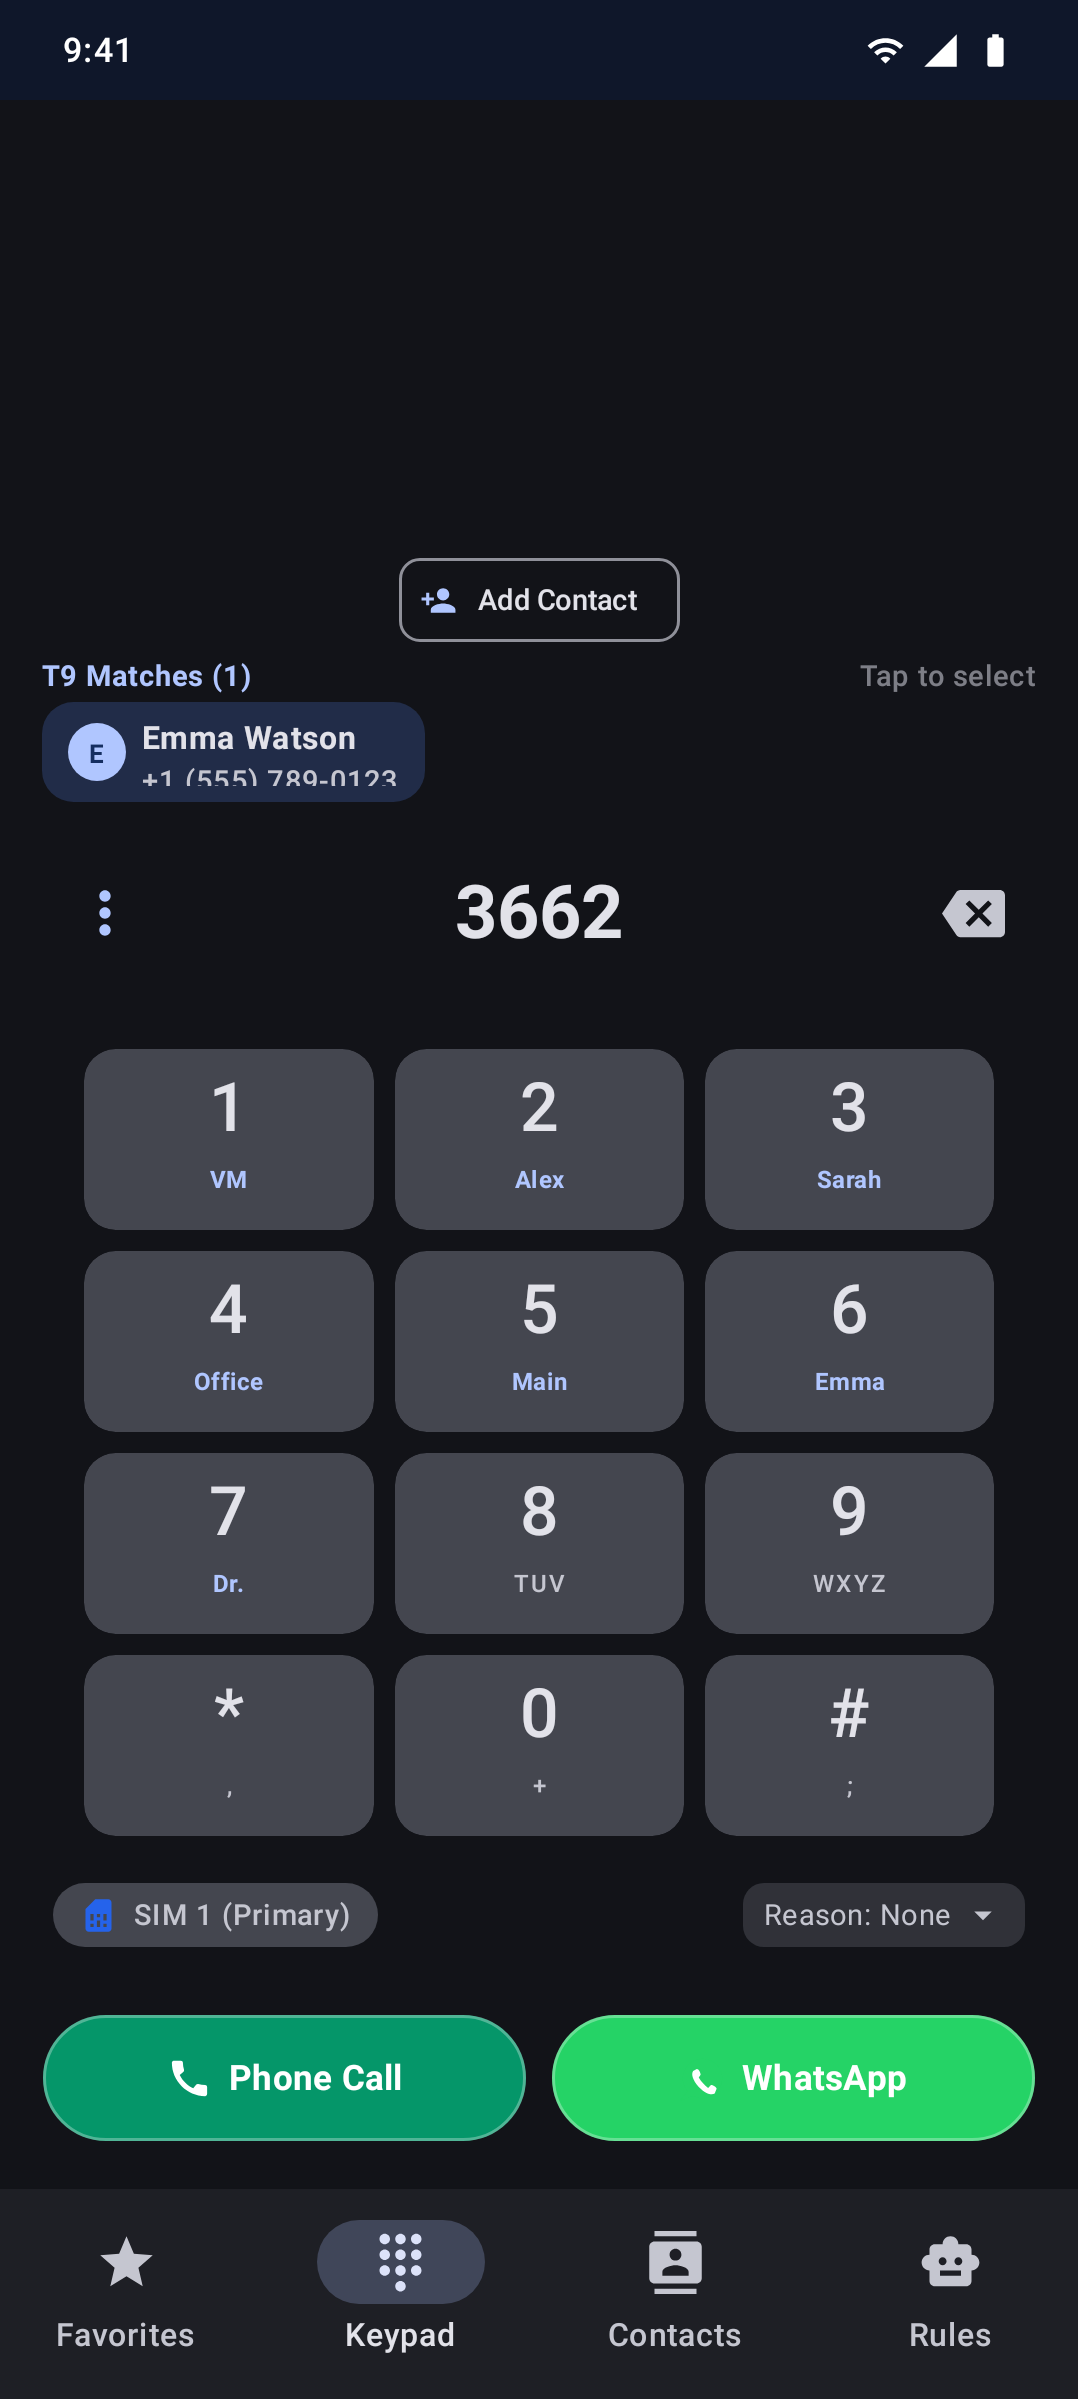
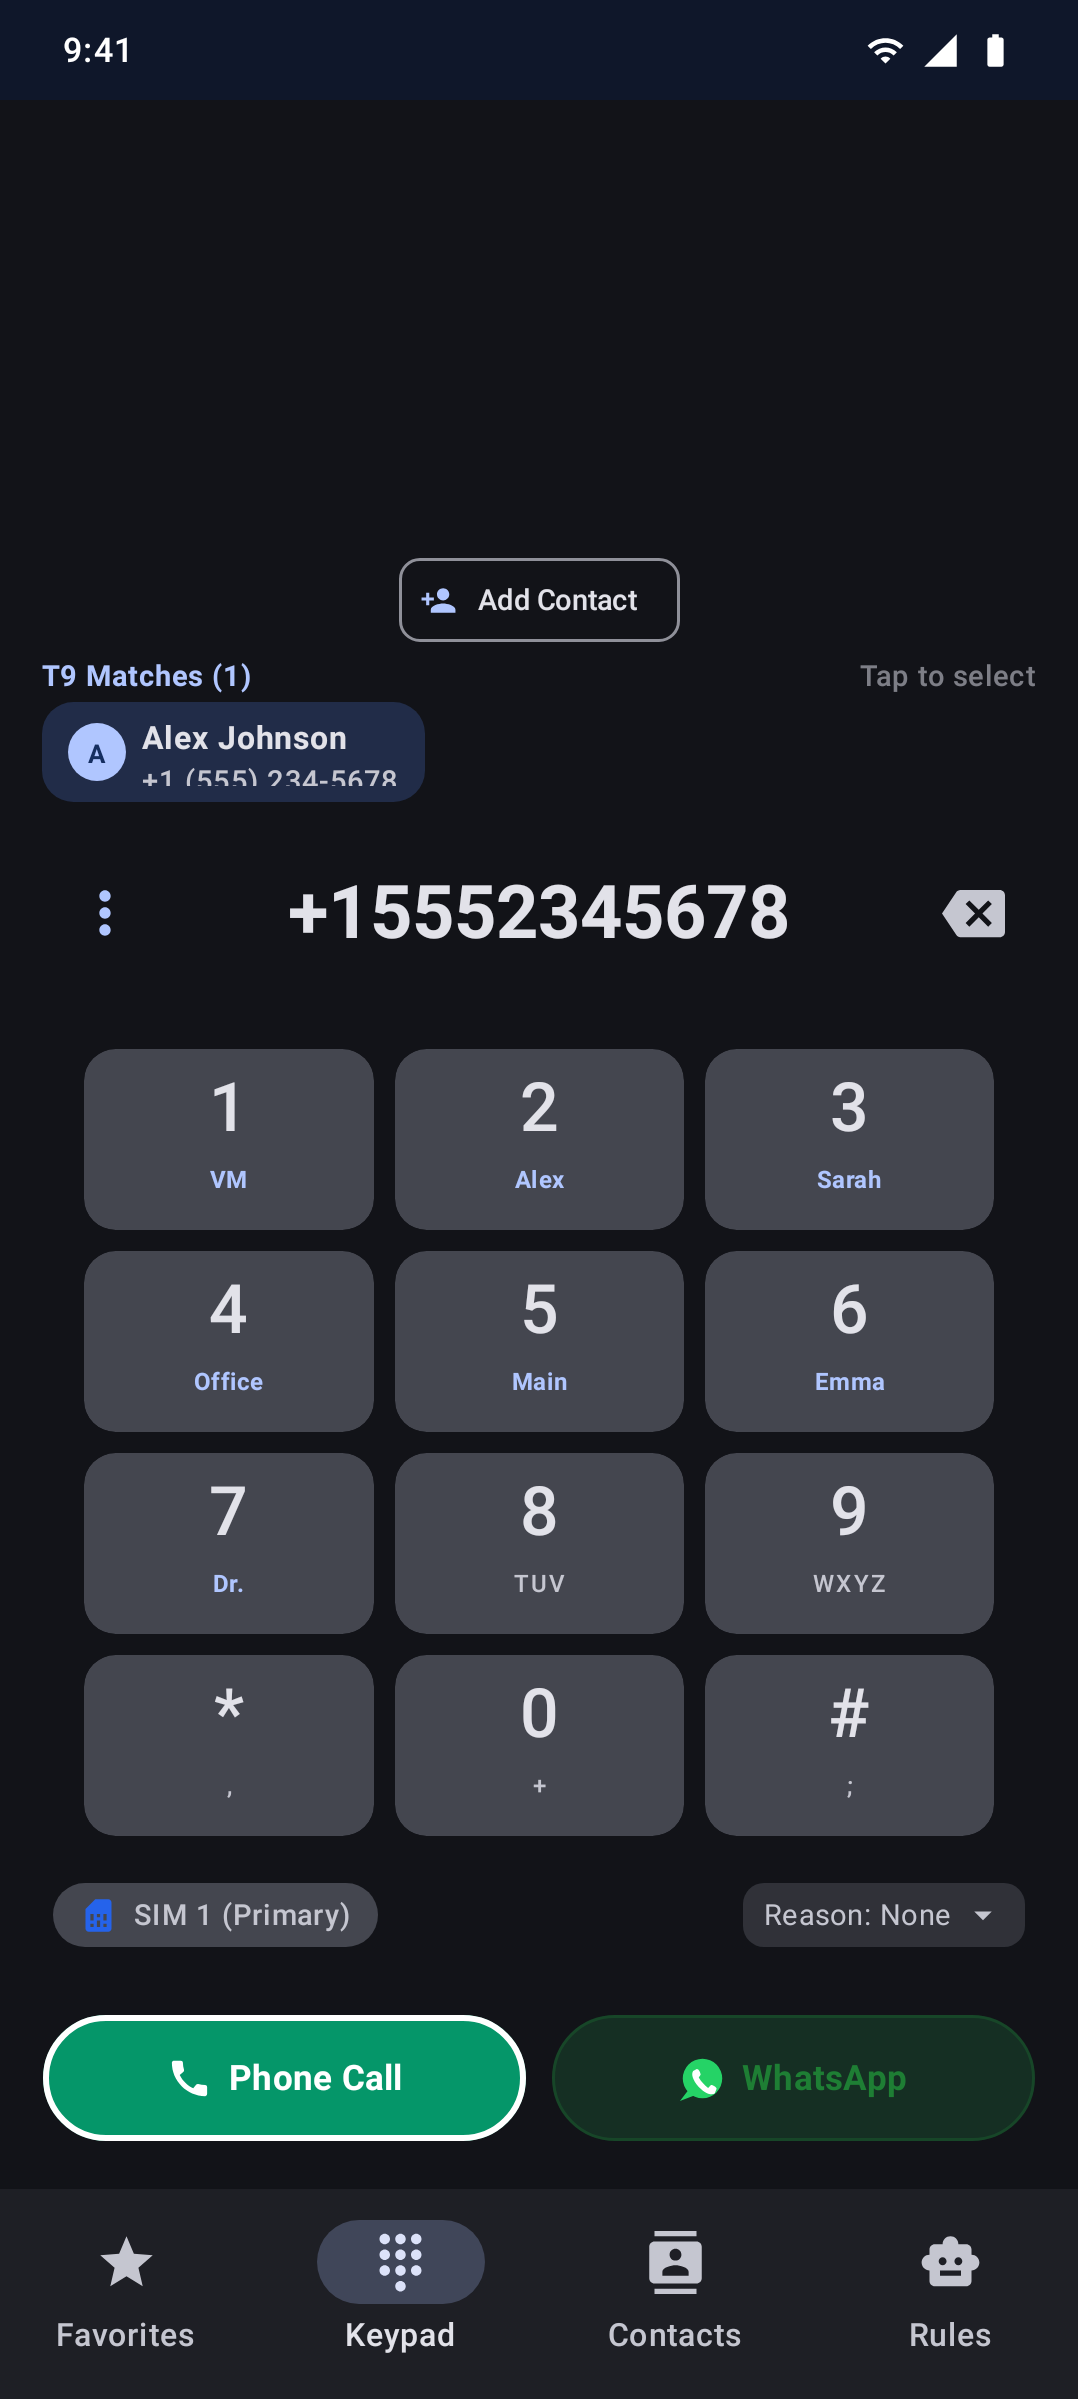
feat: add WhatsApp quick action button to contacts
Integrate a direct WhatsApp messaging action into the contact row for improved communication workflows. Update UI documentation and screenshot tests accordingly.

diff --git a/docs/index.html b/docs/index.html
@@ -46,12 +46,12 @@
 
     /* Mockup Showcase Carousel / Grid */
     .showcase-section { margin: 60px 0; }
-    .mockup-grid { display: grid; grid-template-columns: repeat(auto-fit, minmax(250px, 1fr)); gap: 24px; justify-items: center; max-width: 1240px; margin: 0 auto; }
+    .mockup-grid { display: grid; grid-template-columns: repeat(auto-fit, minmax(280px, 1fr)); gap: 32px; justify-items: center; max-width: 1040px; margin: 0 auto; }
     
     /* Realistic Google Pixel Device Frame */
     .phone-frame {
-      width: 270px;
-      height: 585px;
+      width: 285px;
+      height: 618px;
       background: #000;
       border: 6px solid #2d3748;
       outline: 2px solid rgba(255, 255, 255, 0.08);
@@ -235,7 +235,7 @@
             <img src="panel_1_favorites.png" alt="Favorites & Speed Dial Screen" class="phone-img">
           </div>
           <div class="phone-title">Favorites & Speed Dial</div>
-          <div class="phone-subtitle">Bento grid, quick call & WhatsApp launch</div>
+          <div class="phone-subtitle">Dual Phone & WhatsApp dialing buttons for every contact</div>
         </div>
 
         <!-- Panel 2: Keypad -->
@@ -245,8 +245,8 @@
             <div class="pixel-camera"></div>
             <img src="panel_2_keypad.png" alt="T9 Keypad Screen" class="phone-img">
           </div>
-          <div class="phone-title">T9 Predictive Keypad</div>
-          <div class="phone-subtitle">Predictive search & dual-action dial buttons</div>
+          <div class="phone-title">T9 Keypad with Dual Dialing</div>
+          <div class="phone-subtitle">Instant Phone Call and WhatsApp Call action buttons</div>
         </div>
 
         <!-- Panel 3: Contacts -->
@@ -257,18 +257,7 @@
             <img src="panel_3_contacts.png" alt="Contacts Screen" class="phone-img">
           </div>
           <div class="phone-title">Contacts Directory</div>
-          <div class="phone-subtitle">Sorted directory, search & quick actions</div>
-        </div>
-
-        <!-- Panel 4: Rules -->
-        <div>
-          <div class="phone-frame">
-            <div class="pixel-speaker"></div>
-            <div class="pixel-camera"></div>
-            <img src="panel_4_rules.png" alt="Caller Rules & Backup Screen" class="phone-img">
-          </div>
-          <div class="phone-title">Automation & Rules</div>
-          <div class="phone-subtitle">Auto-answer, DTMF injection & JSON backup</div>
+          <div class="phone-subtitle">One-tap Phone & WhatsApp icons right on every contact row</div>
         </div>
       </div>
     </section>

diff --git a/app/src/test/java/com/example/RealScreenshotTest.kt b/app/src/test/java/com/example/RealScreenshotTest.kt
@@ -256,6 +256,7 @@ class RealScreenshotTest {
           onDeleteFavorite = {},
           onAddFavorite = { _, _, _, _ -> },
           onAssignSpeedDial = { _, _ -> },
+          getPreferredCallingMode = { "ask_always" },
           deviceContacts = demoContacts
         )
       }
@@ -269,7 +270,7 @@ class RealScreenshotTest {
     composeTestRule.setContent {
       PixelPhoneFrameWrapper(selectedTab = 1) {
         DialerScreen(
-          number = "3662",
+          number = "+15552345678",
           favorites = demoFavorites,
           recentCalls = demoRecentCalls,
           deviceContacts = demoContacts,
@@ -303,29 +304,11 @@ class RealScreenshotTest {
           onCallNumber = {},
           onSelectNumber = {},
           onToggleFavorite = { _, _, _, _ -> },
-          onCreateRule = {}
+          onCreateRule = {},
+          onPlaceWhatsAppCall = {}
         )
       }
     }
     composeTestRule.onRoot().captureRoboImage(filePath = "src/test/screenshots/panel_3_contacts.png")
-  }
-
-  @Test
-  fun capture_panel_4_rules() {
-    composeTestRule.setContent {
-      PixelPhoneFrameWrapper(selectedTab = 3) {
-        RulesScreen(
-          rules = demoRules,
-          automationLogs = emptyList(),
-          favorites = demoFavorites,
-          onToggleRule = {},
-          onSaveRule = {},
-          onDeleteRule = {},
-          onClearLogs = {},
-          deviceContacts = demoContacts
-        )
-      }
-    }
-    composeTestRule.onRoot().captureRoboImage(filePath = "src/test/screenshots/panel_4_rules.png")
   }
 }

diff --git a/app/src/main/java/com/example/ui/components/ContactRowItem.kt b/app/src/main/java/com/example/ui/components/ContactRowItem.kt
@@ -199,7 +199,7 @@ fun ContactRowItem(
                     )
                 }
 
-                // Quick Action Buttons
+                // Quick Action Buttons (Phone & WhatsApp directly visible)
                 Row(
                     verticalAlignment = Alignment.CenterVertically,
                     horizontalArrangement = Arrangement.spacedBy(4.dp)
@@ -210,10 +210,20 @@ fun ContactRowItem(
                     ) {
                         Icon(
                             imageVector = Icons.Default.Call,
-                            contentDescription = "Call",
+                            contentDescription = "Phone Call",
                             tint = Color(0xFF16A34A),
                             modifier = Modifier.size(20.dp)
                         )
+                    }
+
+                    val primaryNumber = contact.phoneNumber.ifBlank { contact.phoneNumbers.firstOrNull()?.number ?: "" }
+                    if (primaryNumber.isNotBlank()) {
+                        IconButton(
+                            onClick = { onPlaceWhatsAppCall(primaryNumber) },
+                            modifier = Modifier.size(36.dp)
+                        ) {
+                            WhatsAppIcon(modifier = Modifier.size(20.dp))
+                        }
                     }
 
                     IconButton(
